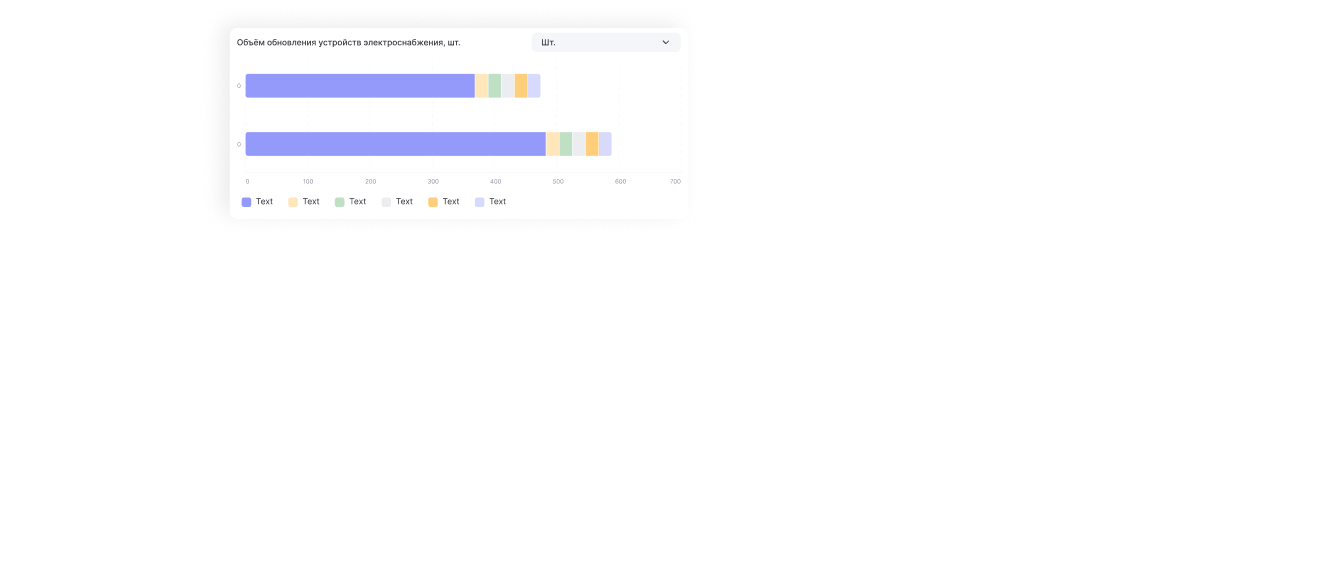
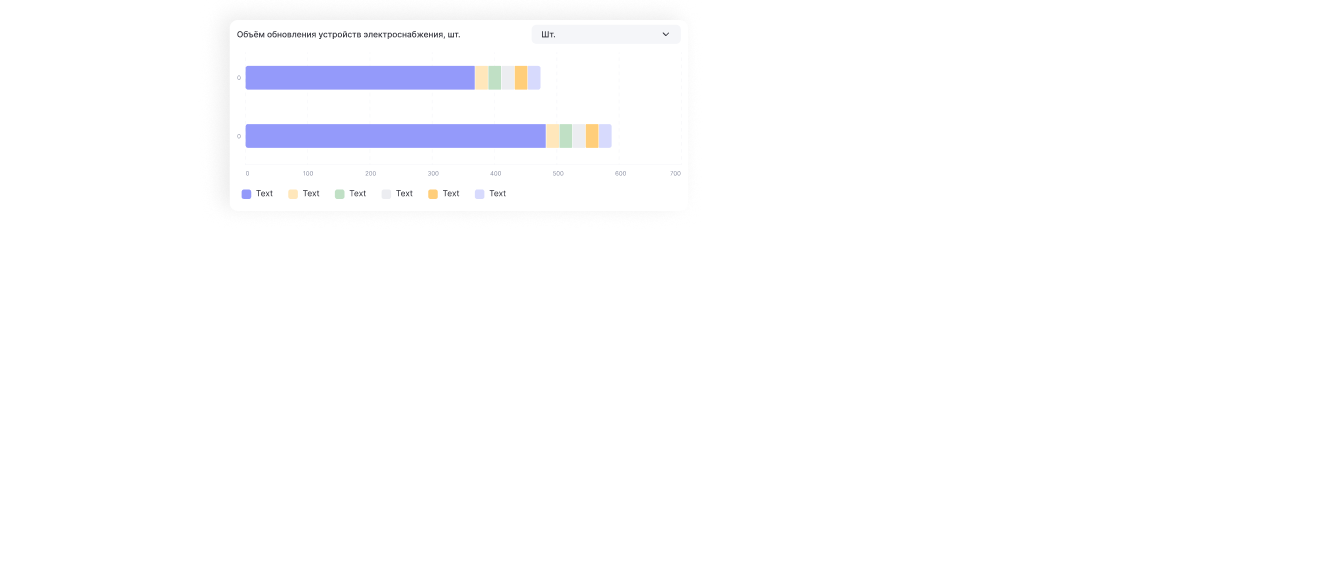
rework hero, mobile layout and card covers to mockup

Changed region(s): [[0.1875, 0.211, 0.4688, 0.3014], [0.1562, 0.0603, 0.4062, 0.1809], [0.1562, 0.3316, 0.375, 0.3617]]

diff --git a/src/styles/global.css b/src/styles/global.css
@@ -34,6 +34,9 @@
   --text-hero: var(--type-hero);
   --text-hero--line-height: var(--type-hero-leading);
   --text-hero--letter-spacing: var(--type-hero-tracking);
+  --text-hero-xs: var(--type-hero-xs);
+  --text-hero-xs--line-height: var(--type-hero-xs-leading);
+  --text-hero-xs--letter-spacing: var(--type-hero-xs-tracking);
   --text-lead: var(--type-lead);
   --text-lead--line-height: var(--type-lead-leading);
   --text-lead--letter-spacing: var(--type-lead-tracking);
@@ -46,9 +49,15 @@
   --text-title-sm: var(--type-title-sm);
   --text-title-sm--line-height: var(--type-title-sm-leading);
   --text-title-sm--letter-spacing: var(--type-title-sm-tracking);
+  --text-title-xs: var(--type-title-xs);
+  --text-title-xs--line-height: var(--type-title-xs-leading);
+  --text-title-xs--letter-spacing: var(--type-title-xs-tracking);
   --text-body: var(--type-body);
   --text-body--line-height: var(--type-body-leading);
   --text-body--letter-spacing: var(--type-body-tracking);
+  --text-body-sm: var(--type-body-sm);
+  --text-body-sm--line-height: var(--type-body-sm-leading);
+  --text-body-sm--letter-spacing: var(--type-body-sm-tracking);
   --text-tag: var(--type-tag);
   --text-tag--line-height: var(--type-tag-leading);
   --text-tag--letter-spacing: var(--type-tag-tracking);
@@ -67,9 +76,15 @@
   --text-case-title: var(--type-case-title);
   --text-case-title--line-height: var(--type-case-title-leading);
   --text-case-title--letter-spacing: var(--type-case-title-tracking);
+  --text-case-title-sm: var(--type-case-title-sm);
+  --text-case-title-sm--line-height: var(--type-case-title-sm-leading);
+  --text-case-title-sm--letter-spacing: var(--type-case-title-sm-tracking);
   --text-section: var(--type-section);
   --text-section--line-height: var(--type-section-leading);
   --text-section--letter-spacing: var(--type-section-tracking);
+  --text-section-sm: var(--type-section-sm);
+  --text-section-sm--line-height: var(--type-section-sm-leading);
+  --text-section-sm--letter-spacing: var(--type-section-sm-tracking);
   --text-subsection: var(--type-subsection);
   --text-subsection--line-height: var(--type-subsection-leading);
   --text-subsection--letter-spacing: var(--type-subsection-tracking);
@@ -82,9 +97,6 @@
   --text-caption: var(--type-caption);
   --text-caption--line-height: var(--type-caption-leading);
   --text-caption--letter-spacing: var(--type-caption-tracking);
-  --text-hero-sm: var(--type-hero-sm);
-  --text-hero-sm--line-height: var(--type-hero-sm-leading);
-  --text-hero-sm--letter-spacing: var(--type-hero-sm-tracking);
 
   --spacing: var(--space);
   --spacing-avatar: var(--avatar);
@@ -246,32 +258,6 @@
 }
 
 /*
-  Обложка карточки на главной: слои лежат друг на друге, по ховеру на карточку
-  каждый выезжает на свой --cover-shift-* (tokens.css) с задержкой --cover-stagger
-  после предыдущего — движение идёт каскадом от фона к верхнему слою.
-*/
-@layer components {
-  .card-cover__layer {
-    display: block;
-    width: 100%;
-    height: auto;
-    max-width: none;
-    transition: translate var(--dur-card) var(--ease-spring);
-    transition-delay: calc(var(--i, 0) * var(--cover-stagger));
-  }
-
-  .card-cover__layer:nth-child(1) { --cover-shift: var(--cover-shift-bg); }
-  .card-cover__layer:nth-child(2) { --cover-shift: var(--cover-shift-1); }
-  .card-cover__layer:nth-child(3) { --cover-shift: var(--cover-shift-2); }
-  .card-cover__layer:nth-child(4) { --cover-shift: var(--cover-shift-3); }
-  .card-cover__layer:nth-child(5) { --cover-shift: var(--cover-shift-4); }
-
-  .group\/card:hover .card-cover__layer {
-    translate: var(--cover-shift, 0 0);
-  }
-}
-
-/*
   Ссылка на компанию над проектами: по ховеру здание в иконке заливается
   фирменным синим, а окна по очереди загораются белым, как вечером.
 */
@@ -319,6 +305,65 @@
 
     .company-link:hover .company-icon__lines {
       stroke: transparent;
+    }
+  }
+}
+
+/*
+  Обложка карточки на главной: слои лежат друг на друге, по ховеру на карточку
+  каждый выезжает на свой --cover-shift-* (tokens.css) с задержкой --cover-stagger
+  после предыдущего — движение идёт каскадом от фона к верхнему слою.
+*/
+@layer components {
+  .card-cover__layer {
+    display: block;
+    width: 100%;
+    height: auto;
+    max-width: none;
+    transition:
+      translate var(--dur-card) var(--ease-spring),
+      scale var(--dur-card) var(--ease-spring);
+    transition-delay: calc(var(--i, 0) * var(--cover-stagger));
+  }
+
+  /* На тач-экранах обложка не анимируется: ховера нет, а на нажатие эффект не успевает */
+
+  /* Телефон: обложка сдвинута так, чтобы центр группы плашек (--focus, %) пришёлся на центр карточки */
+  @media (max-width: 47.99rem) {
+    .card-cover {
+      margin-left: calc(50% - var(--cover-mobile-width) * var(--focus) / 100);
+      /* видимый зазор от описания до первой картинки обложки — --cover-gap у всех карточек */
+      margin-top: calc(var(--cover-gap) - var(--cover-mobile-width) * 282 / 672 * var(--top) / 100);
+    }
+  }
+
+  .card-cover__layer:nth-child(1) { --cover-shift: var(--cover-shift-bg); }
+  .card-cover__layer:nth-child(2) { --cover-shift: var(--cover-shift-1); }
+  .card-cover__layer:nth-child(3) { --cover-shift: var(--cover-shift-2); }
+  .card-cover__layer:nth-child(4) { --cover-shift: var(--cover-shift-3); }
+  .card-cover__layer:nth-child(5) { --cover-shift: var(--cover-shift-4); }
+
+  /*
+    Слои, срезанные правым и нижним краем (фон и модалки — coverBottom в кейсе), по ховеру
+    не сдвигаются, а чуть увеличиваются от нижнего края: растут вверх, а срез остаётся
+    прижат к краю карточки — зазора не появляется, положение в покое как в макете
+  */
+  .card-cover__layer--bleed {
+    transform-origin: 50% 100%;
+  }
+
+  .card-cover__layer--bleed:first-child {
+    transform-origin: 100% 100%;
+  }
+
+  @media (hover: hover) {
+    .group\/card:hover .card-cover__layer {
+      translate: var(--cover-shift, 0 0);
+    }
+
+    .group\/card:hover .card-cover__layer--bleed {
+      translate: none;
+      scale: var(--cover-lift);
     }
   }
 }
@@ -387,11 +432,19 @@
 
   /* Разделы */
   .case-prose h2 {
-    font-size: var(--type-section);
-    line-height: var(--type-section-leading);
-    letter-spacing: var(--type-section-tracking);
+    font-size: var(--type-section-sm);
+    line-height: var(--type-section-sm-leading);
+    letter-spacing: var(--type-section-sm-tracking);
     font-weight: 400;
     scroll-margin-top: calc(var(--spacing) * 24);
+  }
+
+  @media (min-width: 48rem) {
+    .case-prose h2 {
+      font-size: var(--type-section);
+      line-height: var(--type-section-leading);
+      letter-spacing: var(--type-section-tracking);
+    }
   }
 
   /* Между разделами — 68, сильнее правил «после списка» и «после картинки» */

diff --git a/src/styles/tokens.css b/src/styles/tokens.css
@@ -24,13 +24,15 @@
 
   /* Размер / интерлиньяж / трекинг по ролям */
   /* Главная */
-  --type-hero: 2.25rem;      --type-hero-leading: 2.875rem;   --type-hero-tracking: -0.04em;   /* 36/46 */
-  --type-hero-sm: 1.75rem;   --type-hero-sm-leading: 2.25rem; --type-hero-sm-tracking: -0.04em; /* 28/36, заголовки первого экрана и кейса на телефоне */
+  --type-hero: 2.25rem;      --type-hero-leading: 3rem;       --type-hero-tracking: -0.04em;   /* 36/48 */
+  --type-hero-xs: min(calc((100vw - 2rem) * 0.0715), 1.75rem); --type-hero-xs-leading: 1.3; --type-hero-xs-tracking: -0.04em; /* первый экран на телефоне: 4 строки, кегль по ширине — самая длинная строка во всю ширину (≈24.5 на 375, 28 на 430) */
   --type-lead: 1.25rem;      --type-lead-leading: 2rem;       --type-lead-tracking: -0.01em;   /* 20/32 */
   --type-meta: 0.9375rem;    --type-meta-leading: 1;          --type-meta-tracking: -0.02em;    /* 15, компания и даты */
   --type-title: 1.5rem;      --type-title-leading: 1;         --type-title-tracking: -0.02em;  /* 24, название проекта */
   --type-title-sm: 1.5rem;   --type-title-sm-leading: 1.2;    --type-title-sm-tracking: -0.02em; /* 24/120%, название проекта в карточке */
+  --type-title-xs: 1.375rem; --type-title-xs-leading: 1.75rem; --type-title-xs-tracking: -0.02em; /* 22/28, название в карточке на телефоне */
   --type-body: 1.0625rem;    --type-body-leading: 1.5rem;     --type-body-tracking: -0.01em;   /* 17/24, описание проекта */
+  --type-body-sm: 1rem;      --type-body-sm-leading: 1.5rem;  --type-body-sm-tracking: -0.01em; /* 16/24, описание в карточке на телефоне */
   --type-tag: 0.8125rem;     --type-tag-leading: 1;           --type-tag-tracking: -0.02em;    /* 13, категории */
   /* Кнопки и навигация */
   --type-button: 1.0625rem;  --type-button-leading: 1;        --type-button-tracking: -0.02em; /* 17, кнопки первого экрана */
@@ -39,7 +41,9 @@
   --type-footer: 0.875rem;   --type-footer-leading: 1.375rem; --type-footer-tracking: -0.01em; /* 14/22 */
   /* Страница кейса */
   --type-case-title: 2rem;   --type-case-title-leading: 2.5rem; --type-case-title-tracking: -0.04em; /* 32/40 */
+  --type-case-title-sm: 1.75rem; --type-case-title-sm-leading: 2.25rem; --type-case-title-sm-tracking: -0.04em; /* 28/36, название кейса на телефоне — крупнее заголовков разделов */
   --type-section: 1.75rem;   --type-section-leading: 1;       --type-section-tracking: -0.03em; /* 28, заголовки разделов */
+  --type-section-sm: 1.5rem; --type-section-sm-leading: 1.875rem; --type-section-sm-tracking: -0.03em; /* 24/30, заголовки разделов на телефоне — в две строки не слипаются */
   --type-subsection: 1.375rem; --type-subsection-leading: 1.75rem; --type-subsection-tracking: -0.03em; /* 22/28 */
   --type-prose: 1.0625rem;   --type-prose-leading: 1.6875rem; --type-prose-tracking: -0.02em;  /* 17/27 */
   --type-label: 0.8125rem;   --type-label-leading: 0.875rem;  --type-label-tracking: -0.02em;  /* 13/14, подписи капсом */
@@ -53,7 +57,7 @@
 
   /* Размеры */
   --container: 700px;   /* колонка контента */
-  --lead-width: 520px;  /* описание на первом экране */
+  --lead-width: 570px;  /* описание на первом экране */
   --card-text: 510px;   /* текстовый блок карточки проекта */
   --note-width: 607px;  /* плашка NDA на странице кейса */
   --avatar: 7.5rem;     /* портрет, 120px */
@@ -75,12 +79,17 @@
   --card-scale: 0.96;        /* и её масштаб */
 
   /* Обложка карточки по ховеру: сдвиг каждого слоя (x y) и задержка между слоями */
-  --cover-shift-bg: -4px -4px;   /* фон */
+  --cover-shift-bg: 0 0;         /* фон — не сдвигается, растёт на --cover-lift */
   --cover-shift-1: -10px -10px;  /* cover-card-1 */
   --cover-shift-2: 10px -12px;   /* cover-card-2 */
   --cover-shift-3: -6px -16px;   /* cover-card-3 */
   --cover-shift-4: 12px -8px;    /* cover-card-4 */
+  /* Слои, срезанные нижним краем (фон, модалки — coverBottom в кейсе), по ховеру
+     не сдвигаются, а увеличиваются от нижнего края — так срез не открывается */
+  --cover-lift: 1.03;
   --cover-stagger: 60ms;
+  --cover-mobile-width: 538px;   /* обложка на телефоне: 80% десктопной (672) */
+  --cover-gap: 16px;             /* телефон: от описания до первой картинки обложки */
 
   /* Скругления */
   --radius: 28px;         /* карточки, картинки кейса */

diff --git a/src/content.config.ts b/src/content.config.ts
@@ -12,6 +12,15 @@ const cases = defineCollection({
       // Компания из src/data/companies.ts — группа на главной
       company: z.enum(['root-code', 'black-mesa']),
       order: z.number(),
+      // Номера слоёв cover-card-N, срезанных нижним краем обложки (модалки):
+      // по ховеру не сдвигаются, а растут от нижнего края (--cover-lift), чтобы не открывался срез
+      coverBottom: z.array(z.number()).default([]),
+      // Где по горизонтали центр группы плашек на обложке, % ширины: на телефоне
+      // обложка кадрируется так, чтобы плашки стояли по центру карточки
+      coverFocus: z.number().default(28),
+      // Где по вертикали начинается самая верхняя картинка обложки, % высоты:
+      // на телефоне зазор от описания до неё одинаковый у всех карточек
+      coverTop: z.number().default(9.9),
       // Страница кейса. Если about нет — кейс ещё без контента, показываем заглушку из макета
       hero: image().optional(),
       heroAlt: z.string().optional(),

diff --git a/CLAUDE.md b/CLAUDE.md
@@ -44,19 +44,34 @@ https://www.figma.com/design/y5mvpTdawivriA079VE9Xm/Untitled
 1. **Первый экран** — круглый портрет (`--avatar`), приветствие с ролью
    (заголовок), пара слов о себе серым, кнопки «CV ↗» и «Telegram ↗». CV
    открывает в новой вкладке `public/cv/telbizova-cv.pdf` (всё из `public/`
-   доступно любому по ссылке — без телефона и даты рождения).
+   доступно любому по ссылке — без телефона и даты рождения). Заголовок 36/48,
+   описание 20/32 шириной 570, без точки в конце, переносы строк как в макете (на телефоне строки выравниваются сами). На телефоне портрет 96,
+   заголовок в 4 строки со своими переносами (кегль по ширине экрана: ≈24.5 на
+   375, 28 на 430; переносы из макета — только на десктопе), описание 16/24 —
+   первый экран вместе с компанией и началом первой карточки встаёт в экран.
 2. **Проекты** — сгруппированы по компаниям (`src/data/companies.ts`): над
-   группой строка с иконкой, названием компании и периодом. Карточки белые
+   группой строка с иконкой, названием компании и периодом. Название — ссылка
+   на сайт компании (`url` в `companies.ts`): по ховеру здание заливается
+   синим, окна по очереди загораются белым, название подчёркивается. Карточки белые
    (`--surface`, `--radius`), все на всю колонку, 700×440, порядок — по `order`
    во фронтматтере. В карточке: категории через ромбики, название 24/120%,
    описание 17/24 на 60% (текстовый блок 510px, отступ 28, между строками 20) и
-   обложка 672×282, прижатая к правому и нижнему краю. Обложка собирается из
+   обложка 672×282, прижатая к правому и нижнему краю (как Image в макете;
+   положение плашек — в самих файлах слоёв, после правки в Figma их нужно
+   выгрузить заново). На телефоне зазор от описания до первой картинки обложки
+   ровно `--cover-gap` (16); где начинается верхняя картинка (% высоты
+   обложки), задаёт поле `coverTop` у кейса. Обложка собирается из
    слоёв папки кейса: `cover-bg.png` снизу, `cover-card-1.png`, `-2`… поверх по
    номерам; по ховеру слои разъезжаются каскадом (`--cover-shift-*`,
    `--cover-stagger` в `tokens.css`). Обложка декоративная (`alt=""`), кейс
-   называет заголовок. Карточка кликабельна целиком. На телефоне высота
-   карточки — по тексту, обложка шириной 150% начинается через 16 под
-   описанием и обрезается правым краем.
+   называет заголовок. Карточка кликабельна целиком. На телефоне отступы
+   внутри 24, между строками 12, название 22/28, описание 16/24, высота
+   карточки — по тексту, обложка — та же в масштабе 80% (`--cover-mobile-width`, 538px),
+   сдвинутая так, чтобы группа плашек стояла по центру карточки: где центр
+   плашек на обложке (в % ширины), задаёт поле `coverFocus` у кейса.
+   На тач-экранах обложка не анимируется. По ховеру слои поднимаются; слои, срезанные нижним краем (фон и модалки —
+   номера в поле `coverBottom`), по ховеру не сдвигаются, а растут от нижнего
+   края на `--cover-lift` — срез не открывается, в покое всё как в макете.
    Период компании пишется через длинное тире: «Февраль 2026 — Сентябрь 2026».
 3. **Плашка при скролле** — когда кнопки первого экрана уходят из вида, внизу
    по центру появляется та же пара кнопок на полупрозрачной подложке с блюром.
@@ -107,14 +122,17 @@ https://www.figma.com/design/y5mvpTdawivriA079VE9Xm/Untitled
 
 **Правила вёрстки из макета** (десктоп; на телефоне отличается только отмеченное):
 - Колонка 700px, текст с отступом 80px по бокам, картинки на всю ширину колонки.
-- Шапка кейса: название 32/40 (на телефоне 28/36), описание 17/27 на 60%.
+- Шапка кейса: название 32/40, описание 17/27 на 60%. На телефоне название
+  28/36 (крупнее заголовков разделов), описание 16/24, строки выравниваются по
+  длине (без «висящего» слова); отступ сверху 48, до картинки 32, от картинки до «О проекте» 48 — в первый
+  экран входят шапка, картинка и начало «О проекте».
 - Картинка: белая карточка 700×393, скругление 28, скриншот 533×300 по центру,
   скругление 10, обводка 4px `--fg` на 12% — всё это уже в файле картинки. Подпись 14/22
   Medium на 40%, отступ 20 от картинки.
 - «О проекте»: подписи 13/14 Semi Bold капсом на 40%, значения 17/27; роль и
   таймфрейм в две колонки через 24, до команды 24; заголовок → подписи 32. Плашка NDA 607px, подложка
-  `--note` на 8%, скругление 12, отступы 24/32 (на телефоне 16/20).
-- Заголовок раздела 28/1 Regular −3%; подраздел 22/28 Regular −3%;
+  `--note` на 8%, скругление 12, отступы 24/32 (на телефоне 16, иконка у первой строки).
+- Заголовок раздела 28/1 Regular −3% (на телефоне 24/30); подраздел 22/28 Regular −3%;
   жирная строка-заголовок и названия пунктов 17/27 Semi Bold; текст 17/27 −2%.
 - Отступы: между разделами 68; заголовок → текст 32 (всегда, в том числе перед
   списком и подразделом); текст → следующий подраздел 48; подраздел → текст 24;
@@ -147,7 +165,7 @@ https://www.figma.com/design/y5mvpTdawivriA079VE9Xm/Untitled
 - **Отступы:** числовая шкала Tailwind с шагом 4px (`--space`), дробные шаги
   дают значения из макета: `1.5` = 6px, `12.5` = 50px, `17.5` = 70px.
   Между абзацами — `mt-paragraph` (17px).
-- **Размеры:** `--container` 700px, `--lead-width` 520px, `--card-text` 510px,
+- **Размеры:** `--container` 700px, `--lead-width` 570px, `--card-text` 510px,
   `--avatar` 120px.
 - **Скругления:** `--radius` 28px (карточки), `--radius-image` 10px
   (скриншоты), `--radius-bar` 16px (плашка на главной), `--radius-button` 12px
@@ -172,6 +190,7 @@ https://www.figma.com/design/y5mvpTdawivriA079VE9Xm/Untitled
   `--reveal-shift`) и микроанимации на токенах `--dur-*` / `--ease-out`;
   исключение — карточки проектов на главной (`data-reveal="card"`): они
   поднимаются и дорастают заметнее, содержимое внутри не анимируется;
+  всё, что видно при открытии страницы, появляется сразу, без ожидания прокрутки;
   всё отключается при `prefers-reduced-motion`
 
 Если сомневаешься между «добавить эффект» и «не добавлять» — не добавляй.
@@ -180,6 +199,15 @@ https://www.figma.com/design/y5mvpTdawivriA079VE9Xm/Untitled
 
 ## Вёрстка
 
+- Типографика: короткие слова («в», «и», «на»…) приклеиваются к следующему
+  неразрывным пробелом, тире — к предыдущему (`src/lib/typograf.mjs`; в
+  Markdown кейса это делает плагин, в компонентах — `typograf()` для текста из
+  фронтматтера). У абзацев `text-wrap: pretty` — без одного слова в последней строке
+- Ховер-эффекты в своём CSS — только внутри `@media (hover: hover)`, иначе на
+  телефоне они «залипают» после тапа. На тач-экранах эффект показывается на
+  нажатие (`:active` / `active:`, тот же, что на десктопе), с клавиатуры — по
+  `:focus-visible`. Ссылки компаний и имени в футере на касание получают
+  `.is-pressed` (Base.astro), и анимация идёт быстрее — успевает до перехода
 - Семантические теги: `header`, `nav`, `main`, `section`, `article`, `footer`.
   Один `h1` на страницу, уровни заголовков не пропускать
 - Все интерактивные элементы доступны с клавиатуры, видимый `:focus-visible`

diff --git a/src/content/cases/transport-model.md b/src/content/cases/transport-model.md
@@ -5,6 +5,8 @@ tags: ["B2E", "Аналитика"]
 order: 1
 nda: true
 company: root-code
+coverFocus: 25.6
+coverTop: 8.5
 # Страница кейса
 hero: ./transport-model/intro.png
 heroAlt: "Карточка проекта Москва — Могилёв с картой направления и прогнозными показателями"

diff --git a/src/content/cases/bearings-search.md b/src/content/cases/bearings-search.md
@@ -5,6 +5,9 @@ tags: ["B2E", "Внутренний-инструмент"]
 order: 5
 nda: false
 company: black-mesa
+coverFocus: 27.4
+coverTop: 9.9
+coverBottom: [1]
 # Страница кейса
 hero: ./bearings-search/intro.png
 heroAlt: "Поиск аналогов с разбором маркировки и характеристиками"

diff --git a/src/content/cases/investment-analytics.md b/src/content/cases/investment-analytics.md
@@ -5,6 +5,8 @@ tags: ["B2E", "Аналитика"]
 order: 2
 nda: true
 company: root-code
+coverFocus: 30.5
+coverTop: 9.9
 # Страница кейса
 hero: ./investment-analytics/intro.png
 heroAlt: "Витрина инвестиций с кольцевыми диаграммами плана и факта"

diff --git a/src/content/cases/scenario-modeling.md b/src/content/cases/scenario-modeling.md
@@ -5,6 +5,8 @@ tags: ["B2E", "Дизайн-система"]
 order: 3
 nda: true
 company: root-code
+coverFocus: 27.4
+coverTop: 3.5
 # Страница кейса
 hero: ./scenario-modeling/intro.png
 heroAlt: "Модуль с настройками расчёта и графиками"

diff --git a/src/content/cases/grain-forum.md b/src/content/cases/grain-forum.md
@@ -5,6 +5,9 @@ tags: ["B2B", "CRM"]
 order: 4
 nda: false
 company: black-mesa
+coverFocus: 29.8
+coverTop: 9.9
+coverBottom: [1]
 # Страница кейса
 hero: ./grain-forum/intro.png
 heroAlt: "Раздел заявок в панели управления форумом"
